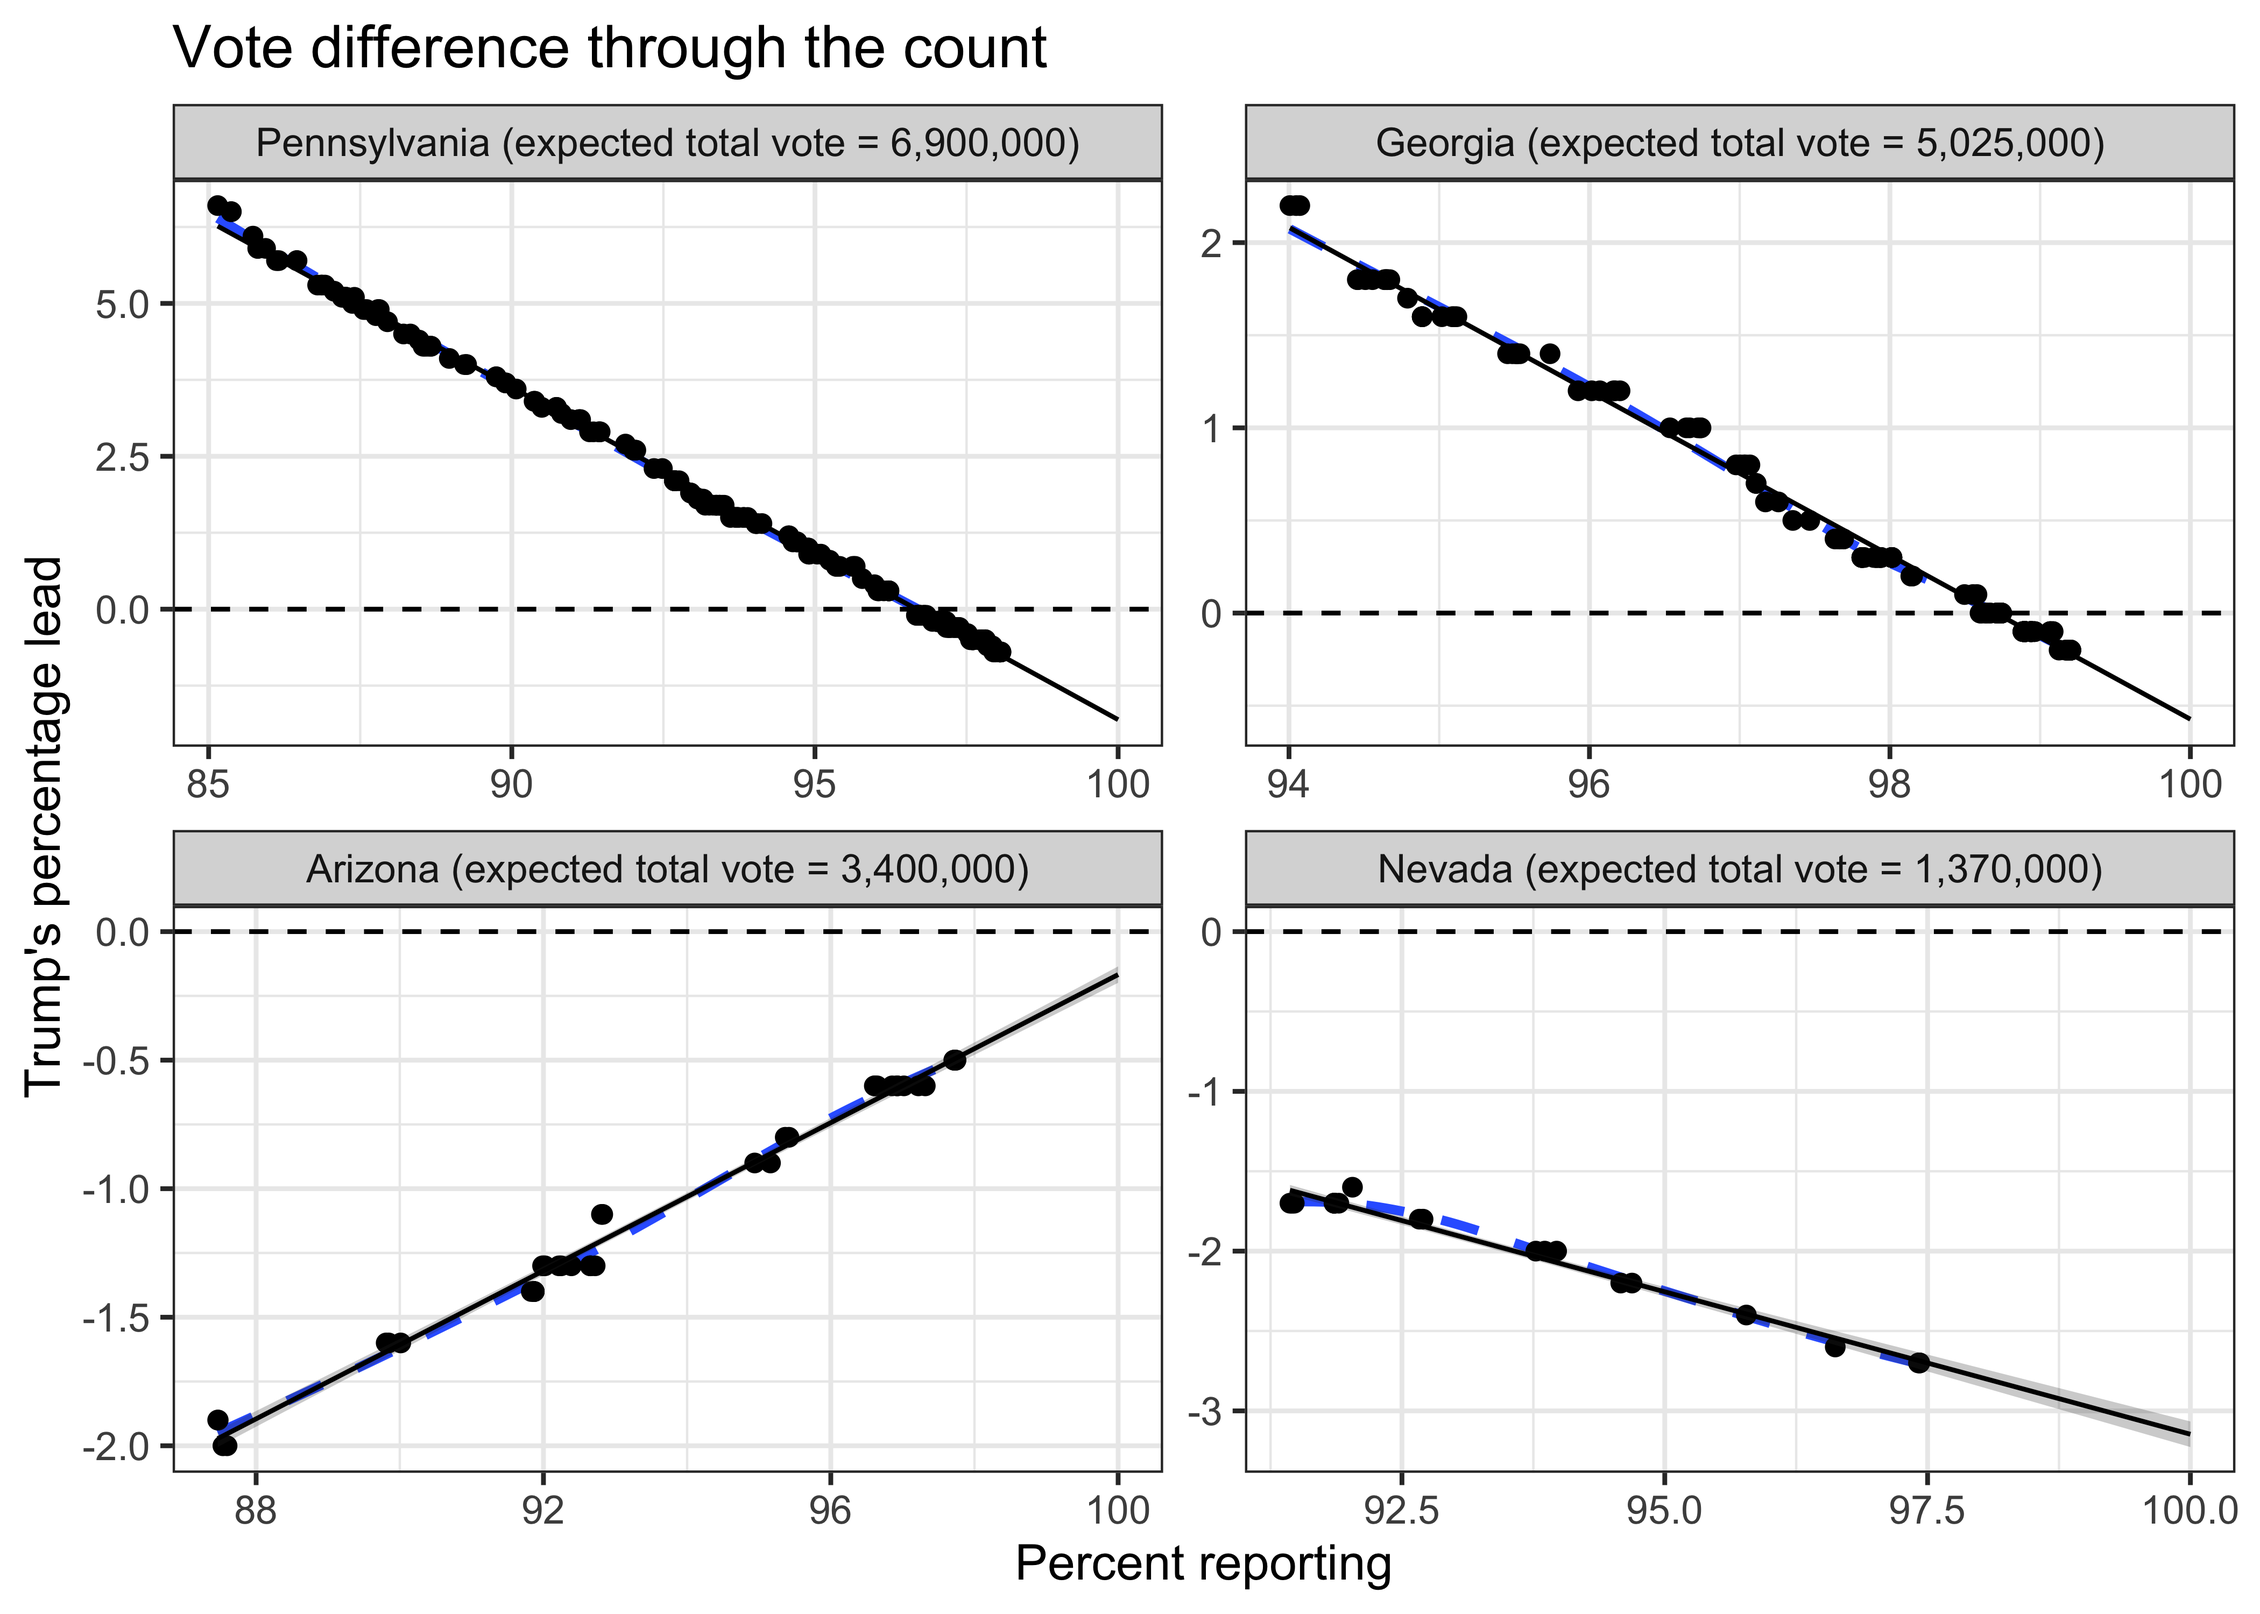
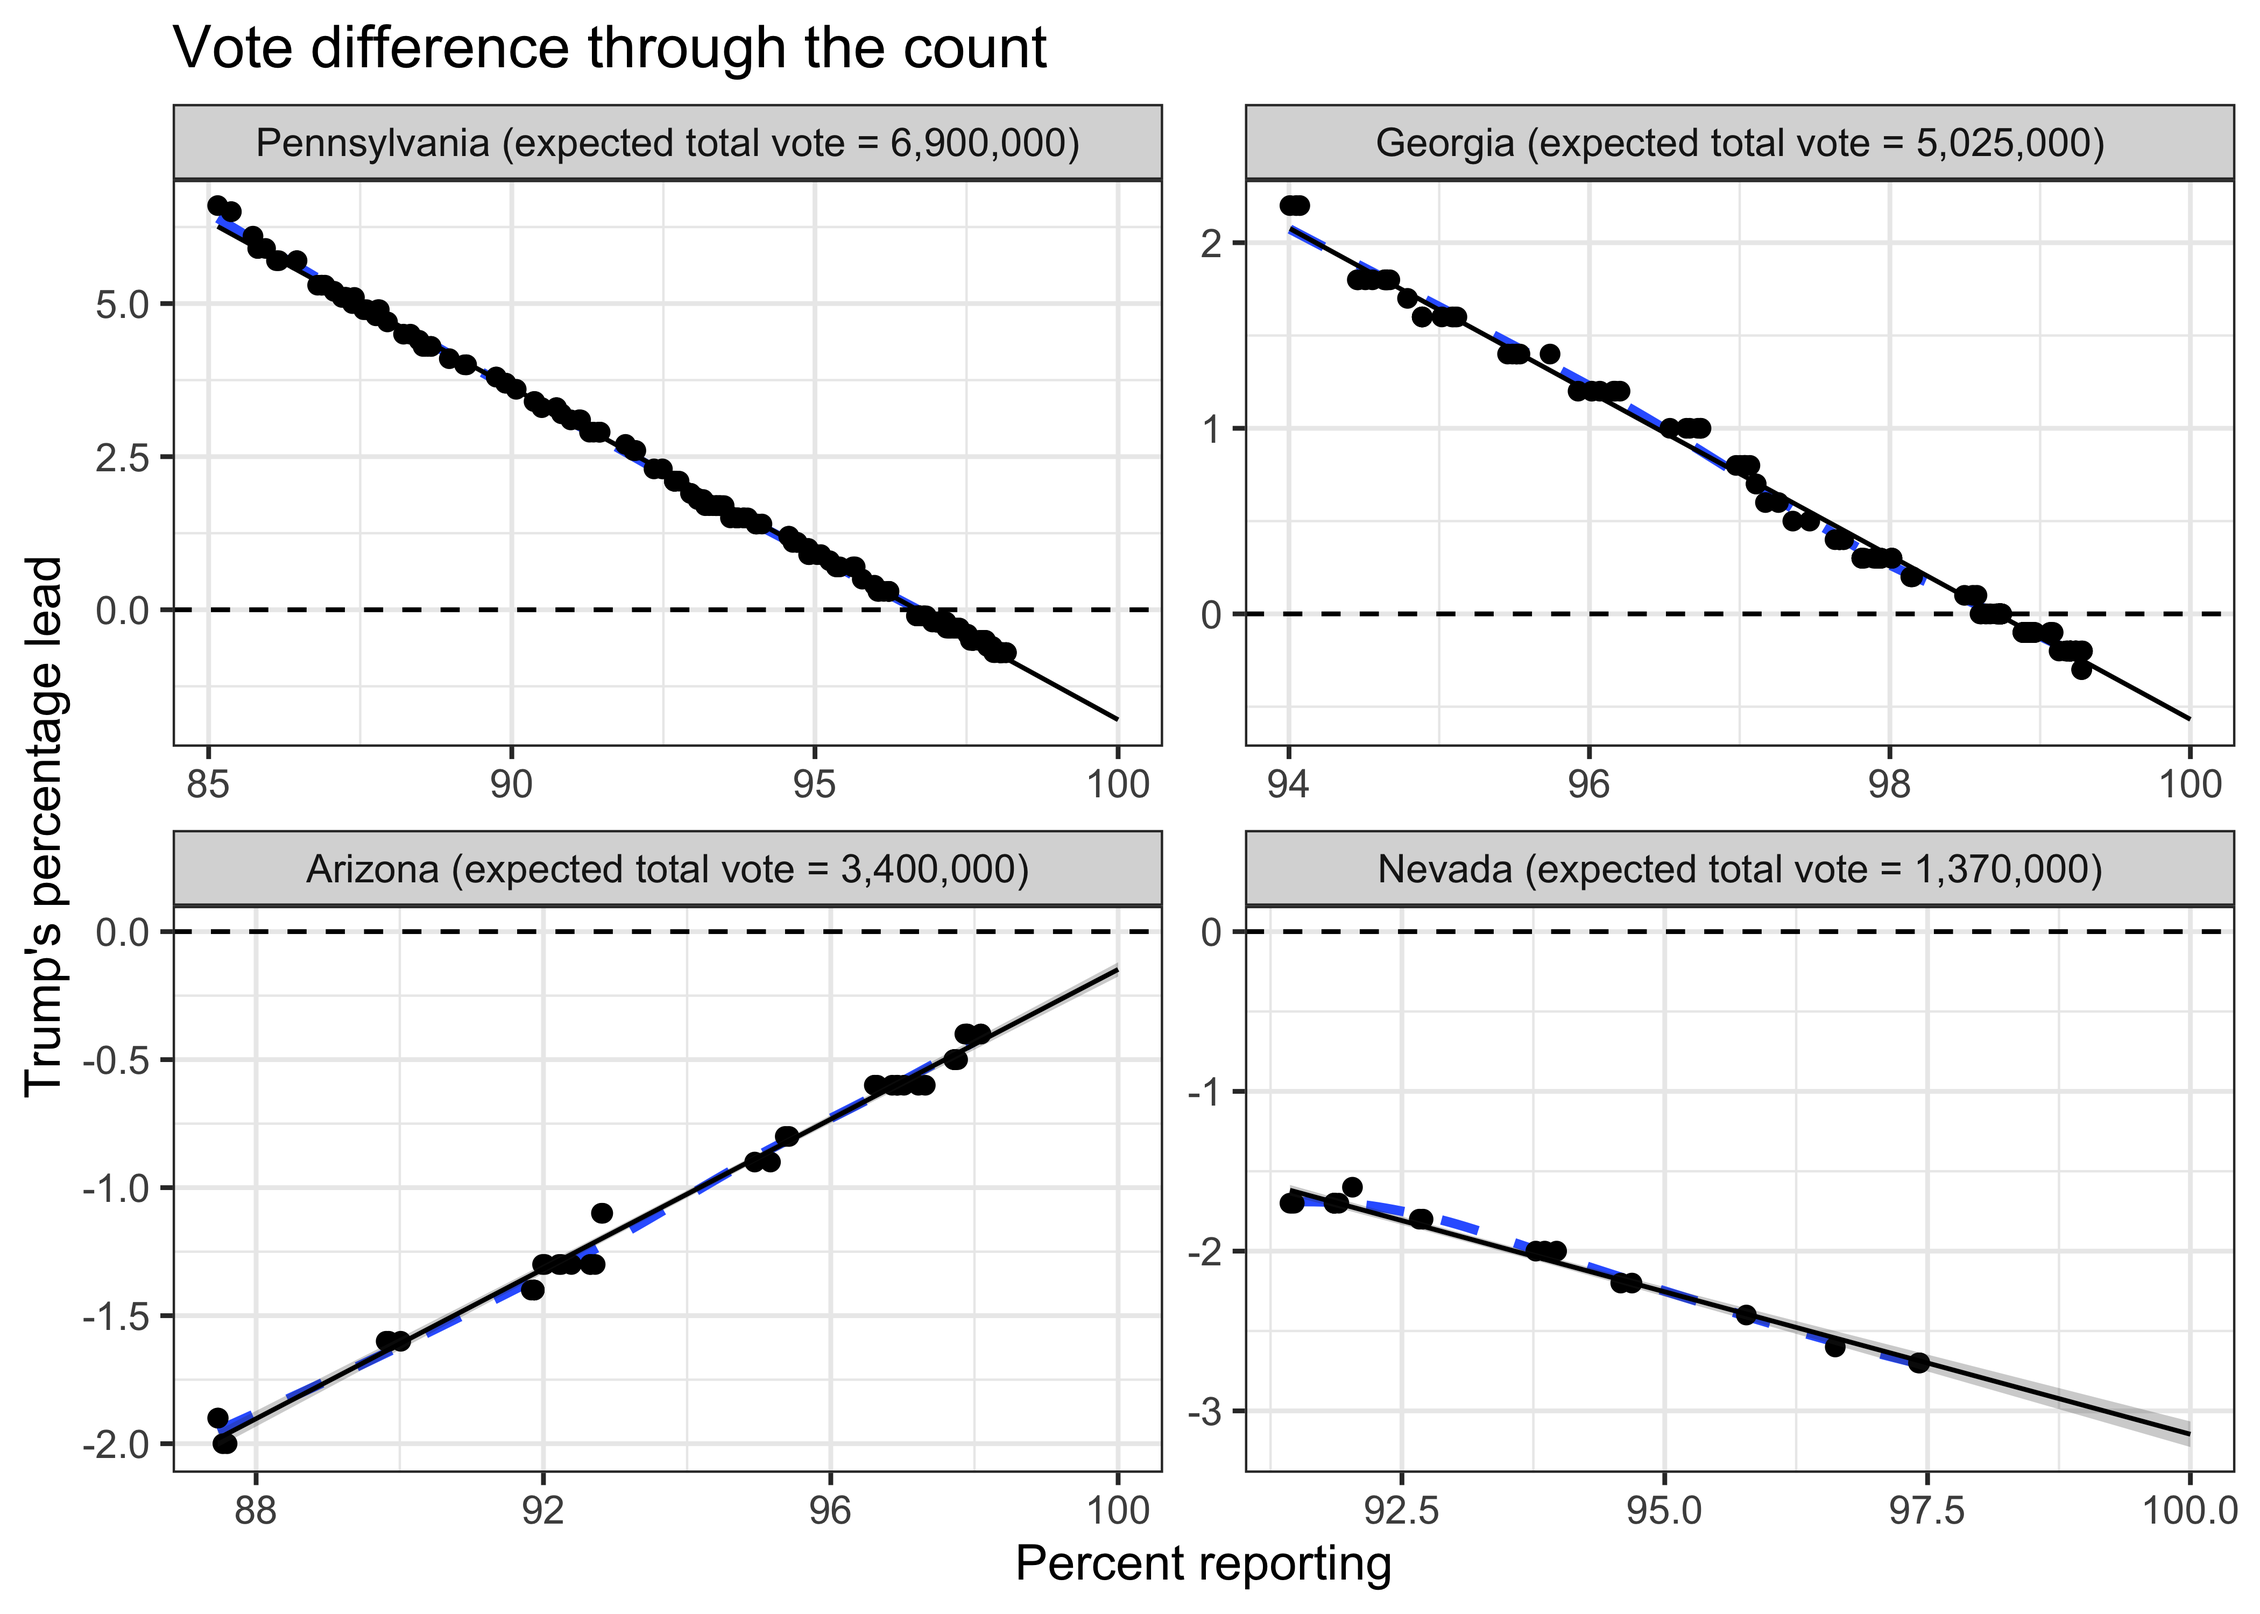
Updating to todays numbers

diff --git a/election-count-updates.md b/election-count-updates.md
@@ -1,7 +1,7 @@
 Election Count Predictions
 ================
 Rafael Irizarry
-2020-11-09 14:30:51
+2020-11-10 11:53:12
 
 ## Load libraries
 
@@ -102,7 +102,7 @@ left_join(last_update, final_estimate, by = "State") %>% knitr::kable(align = c(
 
 | State        | Current Biden lead | Final Estiamte |
 | :----------- | -----------------: | -------------: |
-| Arizona      |                0.5 |            0.2 |
+| Arizona      |                0.4 |            0.1 |
 | Georgia      |                0.2 |            0.6 |
 | Nevada       |                2.7 |            3.1 |
 | Pennsylvania |                0.7 |            1.8 |
@@ -141,21 +141,21 @@ popular, *m* was not negative, in fact it was slightly positive.
 
 ## Technical notes
 
-  - In each state, the data is not independent because each point is an
-    updated percentages not percentages from new votes. As a result the
+  - In each state, the data points are not independent because they are
+    updated percentages, not just from new votes. As a result the
     standard errors used to construct the confidence intervals are
     underestimated.
 
   - The main source of variation seems to be the expected total vote,
-    which changed throughout the night. Note that when the estimated
+    which changed throughout the night. Note that when this estimated
     total changes, all the x-values change and the entire plots moves to
     the left or to the right. Only when we are done counting will we
     know what the total vote was.
 
   - *mx* actually follows a binomial distribution and *f(x) - b* is
     actually its expected value. But because the number of votes being
-    considered were very large, the standard error of this random
-    variable was negligible.
+    considered was very large, the standard error of this random
+    variable was negligible. We assume the observed point is \(b+mx\).
 
   - We show the percentages rather than the totals because this is what
     is included in the API. So we are not really seeing *f(x)* but
